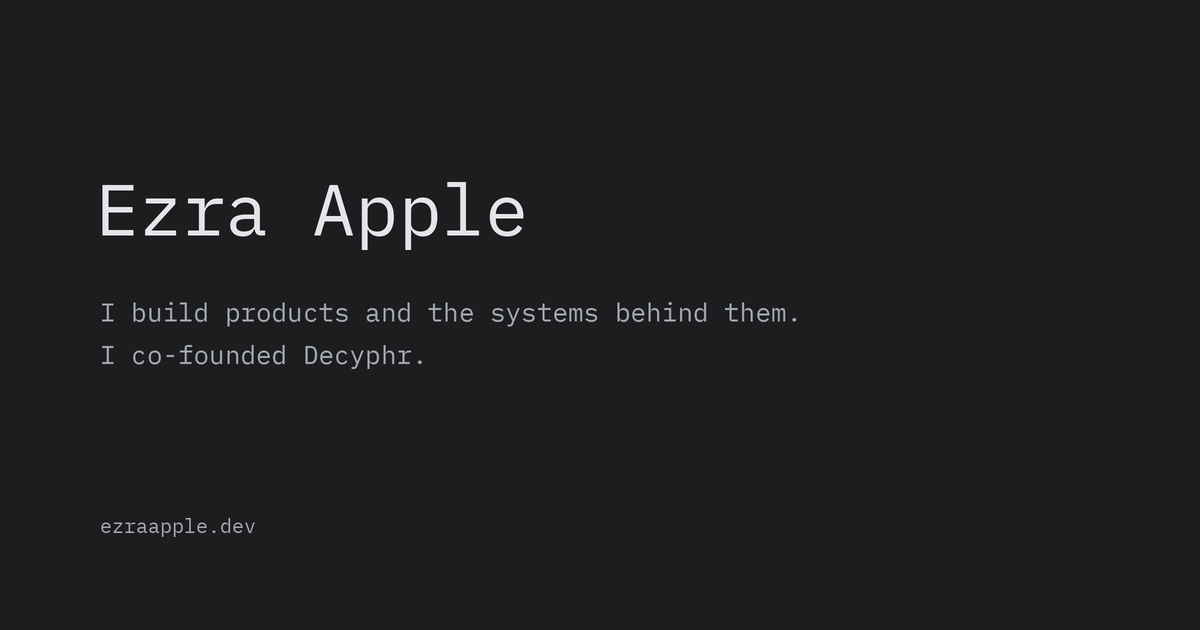
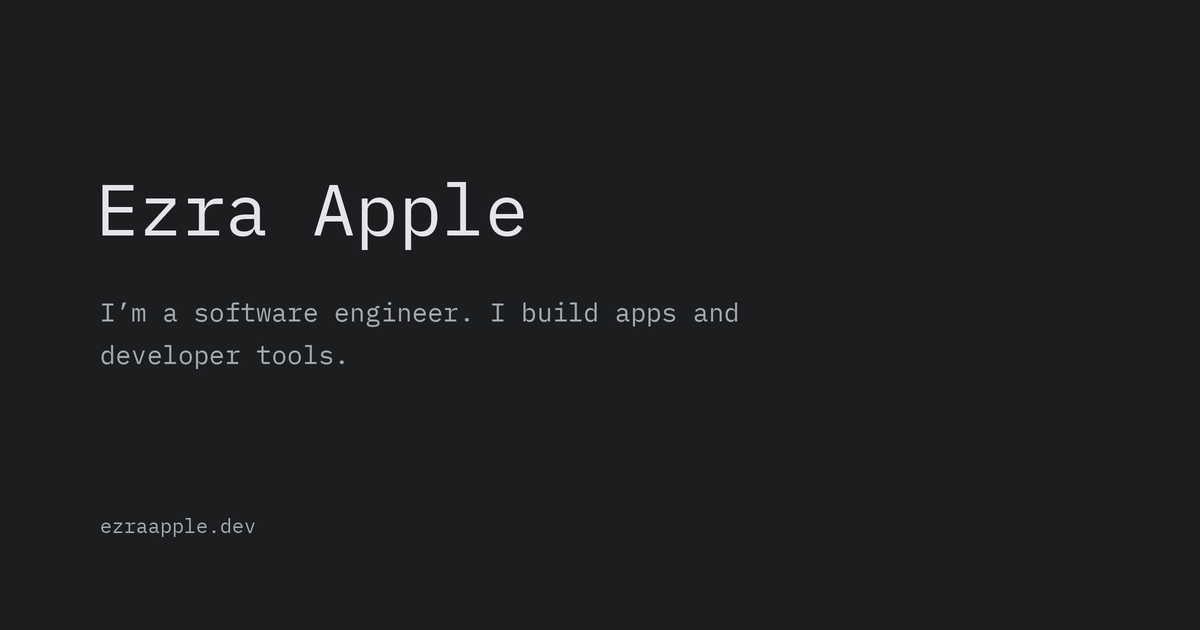
Clarify introduction and preserve project names (#4)
* Preserve authored project name capitalization

* Clarify personal introduction and share previews

Changed region(s): [[0.0925, 0.4825, 0.6783, 0.5127], [0.0617, 0.5429, 0.3392, 0.6032]]

diff --git a/tests/alignment.test.ts b/tests/alignment.test.ts
@@ -5,7 +5,7 @@ import { afterAll, beforeAll, describe, expect, it } from "vitest";
 import { profile } from "../content/profile";
 import { resume, ResumeSchema } from "../content/resume";
 import { writing } from "../content/writing";
-import { siteOrigin } from "../content/site";
+import { shareDescription, siteOrigin } from "../content/site";
 import { getHomepageContent } from "../content/homepage";
 import { getProjectDetail, listProjectSummaries } from "../content/projects";
 
@@ -119,13 +119,12 @@ describe("site", () => {
       ?.split("</body>")[0];
     expect(rootMarkup).toBeDefined();
     expect(rootMarkup).toContain(`<h1>${profile.name}</h1>`);
-    for (const segment of profile.headline.split(profile.headlineLink.text)) {
-      expect(rootMarkup).toContain(segment);
-    }
-    expect(rootMarkup).toContain(`href="${profile.headlineLink.href}"`);
-    expect(rootMarkup).toContain(`aria-label="${profile.headlineLink.label}"`);
-    expect(rootMarkup).not.toContain('id="decyphr"');
-    expect(html).toContain(`content="${profile.headline}"`);
+    expect(rootMarkup).toContain(`<p class="bio">${profile.headline}</p>`);
+    expect(rootMarkup).not.toContain("Decyphr");
+    expect(html.replace(/\s+/g, " ")).toContain(
+      `property="og:description" content="${shareDescription}"`,
+    );
+    expect(html.split("</head>")[0]).not.toContain("Decyphr");
     if (writing.length === 0)
       expect(rootMarkup).not.toContain('id="writing-title"');
     for (const essay of writing) {
@@ -189,7 +188,7 @@ describe("site", () => {
   });
 
   it("keeps Decyphr's history without advertising its expired domain", async () => {
-    for (const path of ["/", "/api/projects", "/api/projects/decyphr", "/llms.txt"]) {
+    for (const path of ["/resume", "/api/projects", "/api/projects/decyphr", "/llms.txt"]) {
       const response = await fetch(`${BASE}${path}`);
       expect(response.status, path).toBe(200);
       const body = await response.text();

diff --git a/content/profile.ts b/content/profile.ts
@@ -1,5 +1,4 @@
 import { z } from "zod";
-import { decyphr } from "./projects/decyphr";
 import { siteOrigin } from "./site";
 import { writing, WritingEntrySchema } from "./writing";
 
@@ -8,12 +7,6 @@ const TextSchema = z.string().trim().min(1);
 export const ProfileSchema = z.object({
   name: TextSchema,
   headline: TextSchema,
-  headlineLink: z.object({
-    text: TextSchema,
-    label: TextSchema,
-    href: z.url(),
-    projectSlug: TextSchema,
-  }),
   location: TextSchema,
   writing: z.array(WritingEntrySchema),
   resume: z.object({ pageUrl: z.url(), pdfUrl: z.url(), structuredUrl: z.url() }),
@@ -25,9 +18,6 @@ export const ProfileSchema = z.object({
       }),
     )
     .min(1),
-}).refine(({ headline, headlineLink }) => headline.includes(headlineLink.text), {
-  message: "The linked founder text must appear in the headline",
-  path: ["headlineLink", "text"],
 });
 
 export type Profile = z.infer<typeof ProfileSchema>;
@@ -36,14 +26,7 @@ export type Profile = z.infer<typeof ProfileSchema>;
 // get_profile tool.
 export const profile: Profile = ProfileSchema.parse({
   name: "Ezra Apple",
-  headline:
-    "I build products and the systems behind them. I co-founded Decyphr.",
-  headlineLink: {
-    text: "Decyphr",
-    label: "Decyphr, an AI video translation startup I co-founded",
-    href: decyphr.links[0].href,
-    projectSlug: decyphr.slug,
-  },
+  headline: "I’m a software engineer. I build apps and developer tools.",
   location: "San Francisco",
   writing,
   resume: {

diff --git a/src/App.tsx b/src/App.tsx
@@ -12,9 +12,6 @@ const SOCIAL_ICONS: Partial<Record<string, IconType>> = {
 };
 
 export function App({ content }: { content: HomepageContent }) {
-  const { headline, headlineLink } = content.profile;
-  const linkStart = headline.indexOf(headlineLink.text);
-
   return (
     <>
       <a className="skip-link" href="#projects">
@@ -23,13 +20,7 @@ export function App({ content }: { content: HomepageContent }) {
       <main className="homepage">
         <header className="intro">
           <h1>{content.profile.name}</h1>
-          <p className="bio">
-            {headline.slice(0, linkStart)}
-            <a href={headlineLink.href} aria-label={headlineLink.label}>
-              {headlineLink.text}
-            </a>
-            {headline.slice(linkStart + headlineLink.text.length)}
-          </p>
+          <p className="bio">{content.profile.headline}</p>
           <p className="location">
             <LuMapPin aria-hidden="true" />
             <span>Based in {content.profile.location}</span>

diff --git a/vite.config.ts b/vite.config.ts
@@ -6,7 +6,7 @@ import { renderToStaticMarkup } from "react-dom/server";
 import { getHomepageContent } from "./content/homepage";
 import { App } from "./src/App";
 import { Resume } from "./src/Resume";
-import { siteOrigin } from "./content/site";
+import { shareDescription, siteOrigin } from "./content/site";
 
 export default defineConfig({
   // Let the Worker enforce the same route-specific CORS policy locally and deployed.
@@ -38,7 +38,7 @@ export default defineConfig({
 
         const content = getHomepageContent();
         const markup = renderToStaticMarkup(createElement(App, { content }));
-        const description = content.profile.headline
+        const description = shareDescription
           .replace(/&/g, "&amp;")
           .replace(/"/g, "&quot;")
           .replace(/</g, "&lt;");

diff --git a/content/homepage.ts b/content/homepage.ts
@@ -13,11 +13,12 @@ export function getHomepageContent(): HomepageContent {
   return {
     profile,
     projects: listProjectSummaries()
-      .filter(({ slug }) => slug !== profile.headlineLink.projectSlug)
+      // Decyphr remains in the résumé and full API/MCP project history.
+      .filter(({ slug }) => slug !== "decyphr")
       .map(({ slug, name, summary, links }) => ({
         slug,
         name,
-        label: slug === "shoutout" ? "shoutout.sh" : name.toLowerCase(),
+        label: slug === "shoutout" ? "shoutout.sh" : name,
         summary,
         links,
       })),

diff --git a/content/site.ts b/content/site.ts
@@ -1,2 +1,5 @@
 // Public origin used by static HTML, social metadata, and the share image.
 export const siteOrigin = "https://ezraapple.dev";
+
+// Share previews stand alone and need not include the full homepage biography.
+export const shareDescription = "I’m a software engineer. I build apps and developer tools.";

diff --git a/README.md b/README.md
@@ -39,14 +39,15 @@ state. Development includes Vite's reload client; production does not.
   Builds reject a PDF whose hash differs from the generated content. Review
   both outputs before publishing. Private LaTeX source and research notes stay
   in the private workspace; the site reads neither at runtime.
-- `content/site.ts`: canonical public origin for social metadata and the share image.
+- `content/site.ts`: canonical public origin and share description for social metadata and the share image.
 - `src/Resume.tsx` and `src/resume.css`: presentation of the public résumé at
   `/resume`, rendered into `resume/index.html` during the multipage build.
 - `content/projects/*.ts`: compact project metadata and one complete Markdown `document` per project. API and MCP return that same document; no nested depth model or presentation fields.
 - `content/writing.ts`: add a title, description, publication, and original URL when an essay is published. The same validated entries automatically feed the homepage, profile, `/api/writing`, MCP `list_writing`, writing search, and `/llms.txt`. Full articles remain at their original URLs. The writing section stays hidden when empty.
 - `src/styles.css`: the single-column dark layout and responsive styles.
 
-The social description follows the profile headline. After changing that copy,
+The social description is authored separately from the homepage headline in
+`content/site.ts`. After changing that copy,
 run `npm run build`, `uv run scripts/generate_share_image.py`, then rebuild to
 include the refreshed `public/og.png`. The generator uses the site's bundled font
 and the built page's metadata. The favicon lives in `public/favicon.svg`.
